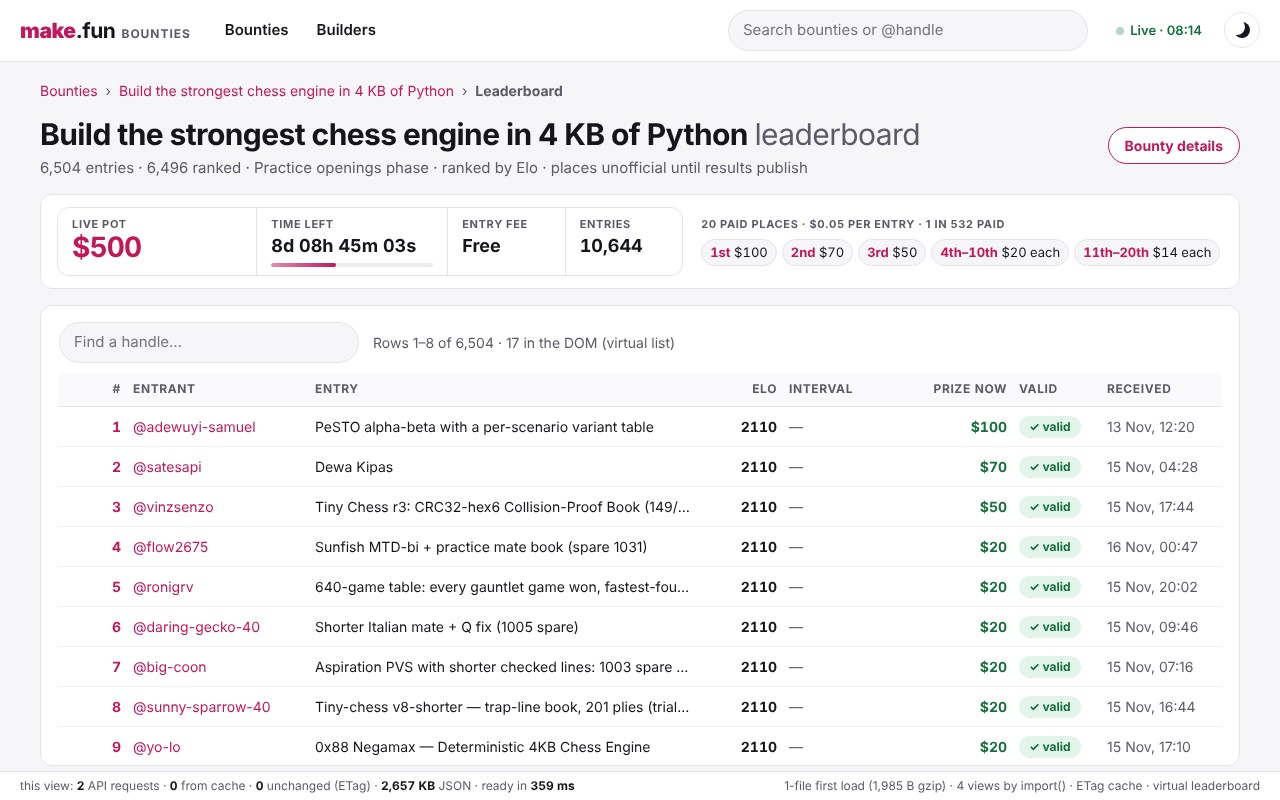
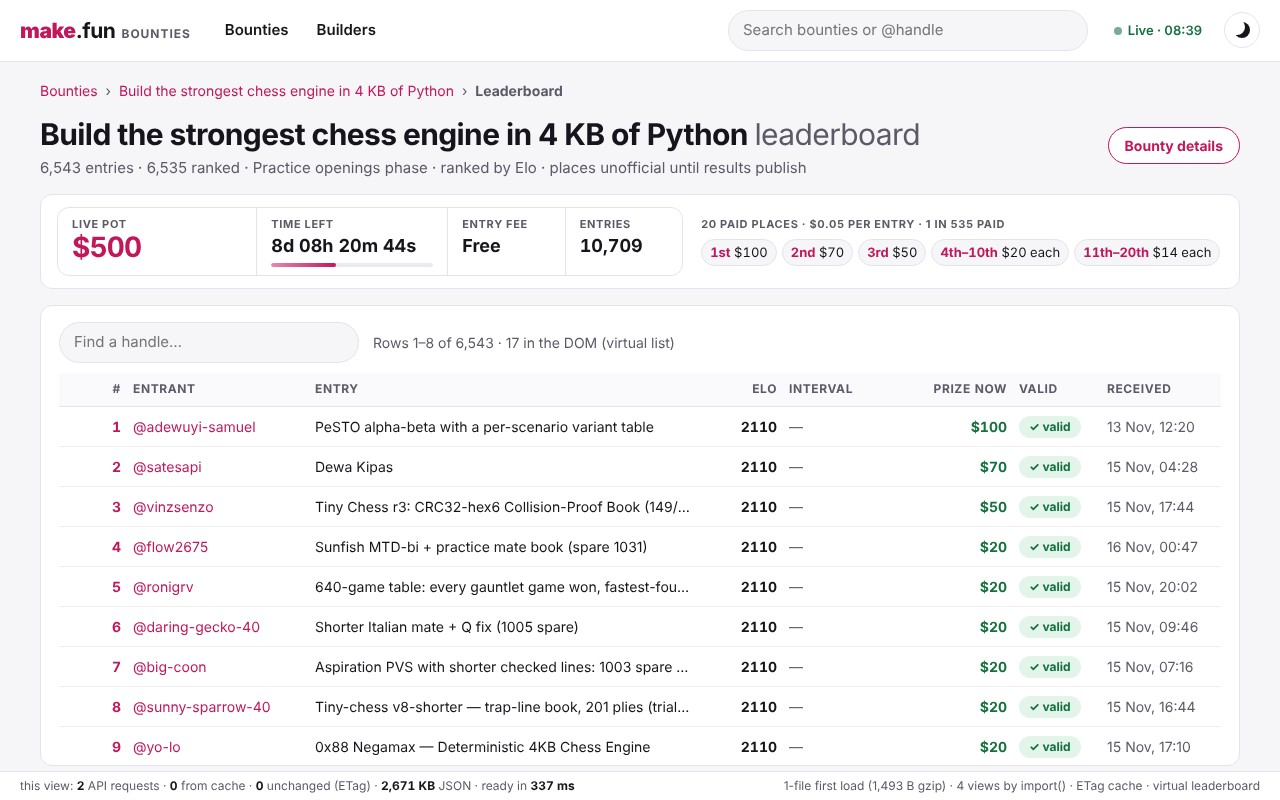
First load 1,493 B gzip (was 1,985): router body moves to shared.js
index.html keeps the pre-paint theme line, the critical CSS and route, which
names the view the hash asks for so <html data-k> shapes the skeleton before
any module arrives (classic script in <head>, so both are set before the body
is parsed). shared.js's show draws the view (module + stylesheet, board reuse,
errors, ready); the meter footer joins the page with the first view, once the
stylesheet is in. Header uses element/id selectors (header, #live, #theme);
sticky, nowrap and dark color-scheme move to the lazy sheet (no effect before
the first scroll or Live stamp). Meter build line and README updated; shots
retaken (same as before apart from live numbers and the meter).

Claude-Session: https://claude.ai/code/session_01LScbYBcbVsmiXmqsqjptVQ

diff --git a/app/views/shared.js b/app/views/shared.js
@@ -1,9 +1,10 @@
 export { cachedFetch, revalidate, meter };
-// Shared by every view: the API cache (cachedFetch: 60 s in memory, one request in flight a path; revalidate: ETag)
-// and the meter, which index.html's route resets; countdowns, live refresh, keyboard, theme, search; in-place row
-// patching; formatting. The open-bounties list feeds the board, the bounty pane and the leaderboard's header, and the
-// bounty pane's Top 5 is the leaderboard's own request, so going from a bounty to its leaderboard costs none.
-const { route } = self.mf, API = 'https://make.fun/api', cache = new Map(), inflight = new Map();
+// Shared by every view: show (index.html's global route names the view the hash asks for, show draws it), the API
+// cache (cachedFetch: 60 s in memory, one request in flight a path; revalidate: ETag) and the meter, which show resets;
+// countdowns, live refresh, keyboard, theme, search; in-place row patching; formatting. The open-bounties list feeds
+// the board, the bounty pane and the leaderboard's header, and the bounty pane's Top 5 is the leaderboard's own
+// request, so going from a bounty to its leaderboard costs none.
+const API = 'https://make.fun/api', cache = new Map(), inflight = new Map();
 
 /** API answers stay in memory for 60 s, and one request in flight serves every caller of the same path. */
 function cachedFetch(path, fresh) {
@@ -27,10 +28,10 @@ async function revalidate(path, hit) {
   return data;
 }
 
-/** What the view on screen cost, reset by each route (index.html sets mf.t0): first-paint requests, cache hits,
- * ETag-unchanged answers, bytes, rows patched, time to ready, then anything after ready as background. */
+/** What the view on screen cost, reset by each show (t0: when it started, 0 for the first load): first-paint requests,
+ * cache hits, ETag-unchanged answers, bytes, rows patched, time to ready, then anything after ready as background. */
 const meter = {
-  reset() { self.__shotReady = false; Object.assign(meter, { req: 0, mem: 0, etag: 0, wire: 0, json: 0, bg: 0, bkb: 0, patched: 0, t0: mf.t0 || 0, ms: 0 }).show(); },
+  reset(t0) { self.__shotReady = false; Object.assign(meter, { req: 0, mem: 0, etag: 0, wire: 0, json: 0, bg: 0, bkb: 0, patched: 0, t0: t0 || 0, ms: 0 }).show(); },
   add(k, n = 1) { if (meter.ms && !/m|g/.test(k)) k = k === 'req' ? 'bg' : 'bkb'; meter[k] += n; meter.show(); },
   show() { drawMeter(meter); },
 };
@@ -47,7 +48,7 @@ function tickCountdowns() {
 
 function liveRefresh() {
   if (document.visibilityState !== 'visible') return;
-  const p = route(true);
+  const p = show(true);
   if (p) p.then(() => (stamp(), tickCountdowns()), () => {});
 }
 
@@ -140,7 +141,7 @@ function normalizeRows(lb) {
     ...(lb.rest || []).map((r) => row(r, r.value, r.display, +(r.rank != null)))]);
 }
 
-const stamp = () => { document.querySelector('.live').textContent = `Live · ${new Date().toLocaleTimeString('en-GB', { hour: '2-digit', minute: '2-digit' })}`; };
+const stamp = () => { document.querySelector('#live').textContent = `Live · ${new Date().toLocaleTimeString('en-GB', { hour: '2-digit', minute: '2-digit' })}`; };
 function timeLeft(ms) {
   if (!(ms > 0)) return 'Closed';
   const s = Math.floor(ms / 1e3), d = Math.floor(s / 86400), p = (n) => String(n).padStart(2, '0');
@@ -169,24 +170,44 @@ const userLink = (h) => `<a href="#/u/${encodeURIComponent(h)}">@${esc(h)}</a>`;
 const none = async (el) => { el.innerHTML = notice('Page not found', 'That address is not a page of this app.'); };
 const focusSearch = () => (scrollTo(0, 0), $q.focus());
 
-const $q = document.querySelector('.top input'), $theme = document.querySelector('.theme');
+const $q = document.querySelector('header input'), $theme = document.querySelector('#theme'), $main = document.querySelector('main');
 const darkScheme = matchMedia('(prefers-color-scheme: dark)');
 
-/** The meter bar: what the view on screen cost, counted by index.html's cachedFetch and revalidate, and the build's first-load facts. */
+/** The meter bar: what the view on screen cost, counted by cachedFetch and revalidate, and the build's first-load facts. */
 function drawMeter(m) {
   const kbs = (n) => `<b>${n < 10240 ? +(n / 1024).toFixed(1) : num(Math.round(n / 1024))} KB</b>`, size = kbs(m.wire + m.json), ms = m.ms ? ` · <b>${num(m.ms)} ms</b>` : '';
   setHTML($meter, phone.matches
     ? `<span><b>${m.req}</b> request${m.req === 1 ? '' : 's'} · <b>${m.mem}</b> cached · <b>${m.etag}</b> unchanged · ${size}${ms}${m.bg ? ` · <b>+${m.bg}</b> bg` : ''}</span>`
     : `<span>this view: <b>${m.req}</b> API request${m.req === 1 ? '' : 's'} · <b>${m.mem}</b> from cache · <b>${m.etag}</b> unchanged (ETag) · ${size} ${m.json ? 'JSON' : m.wire ? 'transferred' : 'downloaded'}${m.patched ? ` · <b>${num(m.patched)}</b> row${m.patched === 1 ? '' : 's'} patched` : ''}${m.ms ? ` · ready in <b>${num(m.ms)} ms</b>` : ''}${m.bg ? ` · <b>+${m.bg}</b> background (${kbs(m.bkb)})` : ''}</span><i>${BUILD}</i>`);
 }
-const BUILD = '1-file first load (1,985 B gzip) · 4 views by import() · ETag cache · virtual leaderboard';
+const BUILD = '1-file first load (1,493 B gzip) · 4 views by import() · ETag cache · virtual leaderboard';
 const phone = matchMedia('(max-width: 639px)');
-const $meter = document.body.appendChild(document.createElement('footer'));
+const $meter = document.createElement('footer'); // put on the page with the first view, once the stylesheet is in
 $meter.className = 'meter';
 
-// Wiring, once, when the first view loads.
-mf.meter = meter;
-mf.ready = () => {
+/** Draws the view index.html's route names, put on screen only once its module and the stylesheet are in (the skeleton
+ * holds its place until then); picking another bounty on the board repaints the detail pane only; live: refreshes the
+ * view on screen in place. */
+async function show(live) {
+  const { path, kind, ...args } = route();
+  if (live) return view?.path === path && view.run(view.el, args, 1);
+  const my = ++seq, el = document.createElement('div');
+  meter.reset(my > 1 && performance.now());
+  if (kind === 'board' && view?.kind === kind) return (view.path = path), view.mod.selectBounty(view.el, args.a && args.b, args.query).then(() => ready(my));
+  document.documentElement.dataset.k = kind, ($main.innerHTML = '<div class=sk>'), scrollTo(0, 0);
+  let mod, run;
+  try { [mod] = await Promise.all([VIEWS[kind](), styled]); await (run = mod[kind])(el, args); }
+  catch (e) { el.innerHTML = '<p class=empty><button data-retry>Retry</button>'; el.firstChild.prepend(`Could not load: ${e.message} `); }
+  if (my === seq) (view = { el, path, kind, mod, run }), $main.replaceChildren(el), $meter.isConnected || document.body.append($meter), ready(my);
+}
+const VIEWS = { board: () => import('./board.js'), leaderboard: () => import('./leaderboard.js'), profile: () => import('./profile.js'), builders: () => import('./profile.js'), none: async () => ({ none }) };
+const styled = import('./style.js');
+let view, seq = 0;
+self.mf = { route, show, get view() { return view; } };
+
+/** The view is on screen: the meter's time to ready, the nav, the title, the Live stamp, then the background work. */
+function ready(my) {
+  if (my !== seq) return;
   const n = ++readyN;
   meter.ms = Math.round(performance.now() - meter.t0), meter.show();
   for (const fn of later.splice(0)) fn();
@@ -198,7 +219,7 @@ mf.ready = () => {
   stamp();
   tickCountdowns();
   return true;
-};
+}
 let readyN = 0;
 $q.form.addEventListener('submit', (e) => {
   e.preventDefault();
@@ -208,7 +229,7 @@ $q.form.addEventListener('submit', (e) => {
 });
 $q.addEventListener('input', () => mf.view?.mod.onSearch?.());
 document.addEventListener('click', (e) => {
-  if (e.target.closest('[data-retry]')) route();
+  if (e.target.closest('[data-retry]')) show();
   else if (e.target.closest('[data-search]')) focusSearch();
 });
 $theme.addEventListener('click', () => applyTheme($theme.getAttribute('aria-pressed') === 'true' ? 'light' : 'dark'));
@@ -221,7 +242,8 @@ applyTheme();
 bindKeyboard();
 setInterval(tickCountdowns, 1e3);
 setInterval(liveRefresh, 60e3);
-meter.reset();
+onhashchange = () => show();
+show();
 
 export { tickCountdowns, liveRefresh, bindKeyboard, applyTheme, patchRows, setHTML, oddsFor, paidPlaces, placeRuns, placeLabel, getBounties, getBounty, bountyFor, getLeaderboard, background, afterReady, normalizeRows,
-  route, esc, num, money, pot, countdown, timeBar, perEntry, notice, ordinal, fmtDate, shortDate, fmtScore, imagesDecoded, avatar, crumbs, userLink, none };
+  show, esc, num, money, pot, countdown, timeBar, perEntry, notice, ordinal, fmtDate, shortDate, fmtScore, imagesDecoded, avatar, crumbs, userLink, none };

diff --git a/app/index.html b/app/index.html
@@ -1,51 +1,36 @@
 <!doctype html>
-<html lang="en">
-<meta charset="utf-8">
-<meta name="viewport" content="width=device-width">
+<html lang=en>
+<meta charset=utf-8>
+<meta name=viewport content="width=device-width">
 <title>make.fun bounties</title>
+<script>// route; shared.js: cachedFetch (60s), revalidate (ETag), meter
+try{document.documentElement.dataset.theme=localStorage.theme||(matchMedia('(prefers-color-scheme:dark)').matches?'dark':'')}catch{}
+function route(){
+const[path,query='']=location.hash.replace(/^#\/?/,'').split('?'),[a,b,c]=path.split('/').map(decodeURIComponent);
+return{path,a,b,c,query,kind:!a||a=='bounty'&&b&&!c?'board':a=='bounty'&&c=='leaderboard'?'leaderboard':a=='u'&&b?'profile':a=='builders'&&!b?'builders':'none'}}
+document.documentElement.dataset.k=route().kind;
+import('./views/shared.js').catch(e=>document.querySelector('main').textContent=e.message);
+</script>
 <style>
 :root{--ac:#c2185b;--ink:#17151c;--mut:#5d5a68;--bg:#f6f5f8;--card:#fff;--line:#e6e2ec;--ok:#17703f}
-[data-theme=dark]{--ac:#f48fb1;--ink:#ecebf1;--mut:#a9a5b5;--bg:#121116;--card:#1c1b22;--line:#34313d;--ok:#5fd394;color-scheme:dark}
+[data-theme=dark]{--ac:#f48fb1;--ink:#ecebf1;--mut:#a9a5b5;--bg:#121116;--card:#1c1b22;--line:#34313d;--ok:#5fd394}
 *{box-sizing:border-box}
 body{margin:0;font:15px/1.5 system-ui;color:var(--ink);background:var(--bg)}
 a{color:var(--ac);text-decoration:none}
-.top{position:sticky;top:0;display:flex;align-items:center;gap:22px;padding:10px max(20px,50% - 620px);background:var(--card);border-bottom:1px solid var(--line)}
-.logo{font-size:21px;color:var(--ink);font-weight:700;letter-spacing:-.02em}.logo b{color:var(--ac)}
-.logo small{margin-left:6px;font-size:12px;color:var(--mut);text-transform:uppercase;letter-spacing:.08em}
+header{display:flex;align-items:center;gap:22px;padding:10px max(20px,50% - 620px);background:var(--card);border-bottom:1px solid var(--line)}
+header>a{font-size:21px;color:var(--ink);font-weight:700;letter-spacing:-.02em}
+header b{color:var(--ac)}
+header small{margin-left:6px;font-size:12px;color:var(--mut);text-transform:uppercase;letter-spacing:.08em}
 nav{display:flex;gap:4px}
 nav>*{font:inherit;color:var(--ink);font-weight:600;padding:6px 12px;border-radius:99px;border:0;background:none}
 form{flex:1;max-width:360px;margin-left:auto}
 input{width:100%;font:inherit;color:var(--ink);padding:8px 14px;border:1px solid var(--line);border-radius:99px;background:var(--bg)}
-.live{width:92px;text-align:right;font-size:13px;font-weight:600;color:var(--ok);white-space:nowrap}
-.theme{width:36px;height:36px;opacity:0}
+#live{width:92px;text-align:right;font-size:13px;font-weight:600;color:var(--ok)}
+#theme{width:36px;height:36px;opacity:0}
 main{max-width:1240px;margin:0 auto;padding:18px 20px 24px}
-[data-k=board]{max-width:1480px}
+[data-k=board] main{max-width:1480px}
 .sk{border-radius:14px;background:var(--line);height:70vh}
-@media (min-width:1000px){[data-k=board] .sk{background:linear-gradient(90deg,var(--line) 640px,#0000 0 658px,var(--line) 0)}}
-@media (max-width:860px){.top{flex-wrap:wrap;gap:8px 14px;padding:10px 14px}form{order:9;flex-basis:100%;max-width:none}main{padding:14px 12px}}
-@media (max-width:639px){.live{margin-left:auto}input,.theme{min-height:44px}.theme{width:44px}nav{position:fixed;inset:auto 0 0;padding:4px 6px;background:var(--card);border-top:1px solid var(--line)}nav>*{display:grid!important;place-items:center;flex:1;min-height:52px}}
-</style>
-<header class="top"><a class="logo" href="#/"><b>make</b>.fun<small>bounties</small></a><nav><a href="#/">Bounties</a><a href="#/builders">Builders</a><button hidden data-search>Search</button></nav>
-<form><input type="search" placeholder="Search bounties or @handle" aria-label="Search"></form><span class="live">Live</span><button class="theme" aria-label="Dark theme"></button></header>
-<main></main>
-<script type="module">// route; shared.js: cachedFetch (60s), revalidate (ETag), meter
-try{document.documentElement.dataset.theme=localStorage.theme||(matchMedia('(prefers-color-scheme:dark)').matches?'dark':'')}catch{}
-const main=document.querySelector('main'),
-VIEWS={board:()=>import('./views/board.js'),leaderboard:()=>import('./views/leaderboard.js'),profile:()=>import('./views/profile.js'),builders:()=>import('./views/profile.js'),none:()=>import('./views/shared.js')};
-let view,seq=0;
-async function route(live){
-const[path,query='']=location.hash.replace(/^#\/?/,'').split('?'),[a,b,c]=path.split('/').map(decodeURIComponent),args={a,b,c,query},
-kind=!a||a=='bounty'&&b&&!c?'board':a=='bounty'&&c=='leaderboard'?'leaderboard':a=='u'&&b?'profile':a=='builders'&&!b?'builders':'none';
-if(live)return view?.path==path&&view.run(view.el,args,1);
-const my=++seq,el=document.createElement('div');
-mf.t0=my>1&&performance.now();mf.meter?.reset();
-if(kind=='board'&&view?.kind==kind)return view.path=path,view.mod.selectBounty(view.el,a&&b,query).then(()=>ready(my));
-main.dataset.k=kind;main.innerHTML='<div class=sk>';scrollTo(0,0);
-let mod,run;
-try{[mod]=await Promise.all([VIEWS[kind](),import('./views/style.js')]);await(run=mod[kind])(el,args)}
-catch(e){el.innerHTML='<p class=empty><button data-retry>Retry</button>';el.firstChild.prepend(`Could not load: ${e.message} `)}
-if(my==seq)view={el,path,kind,mod,run},main.replaceChildren(el),ready(my)}
-const ready=(my)=>my==seq&&mf.ready?.();
-self.mf={route,get view(){return view}};
-onhashchange=()=>route();route();
-</script>
+@media(min-width:1000px){[data-k=board] .sk{background:linear-gradient(90deg,var(--line) 640px,#0000 0 658px,var(--line) 0)}}
+@media(max-width:860px){header{flex-wrap:wrap;gap:8px 14px;padding:10px 14px}form{order:9;flex-basis:100%;max-width:none}main{padding:14px 12px}}
+@media(max-width:639px){#live{margin-left:auto}input,#theme{min-height:44px}#theme{width:44px}nav{position:fixed;inset:auto 0 0;padding:4px 6px;background:var(--card);border-top:1px solid var(--line)}nav>*{display:grid!important;place-items:center;flex:1;min-height:52px}}
+</style><header><a href=#/><b>make</b>.fun<small>bounties</small></a><nav><a href=#/>Bounties</a><a href=#/builders>Builders</a><button hidden data-search>Search</button></nav><form><input type=search placeholder="Search bounties or @handle" aria-label=Search></form><span id=live>Live</span><button id=theme aria-label="Dark theme"></button></header><main><div class=sk></div></main>

diff --git a/app/views/style.js b/app/views/style.js
@@ -6,19 +6,22 @@ stylesheet.replaceSync(String.raw`
 :root[data-theme=dark]{--ac2:#3b1f2d;--sk:#24222b;--on-ac:#1d0a13;--hd:#1c1b22f2;--ink2:#cfccd8;--th:#23212a;--line2:#2a2831;--hov:#2a2330;--okbg:#17321f;--warn:#f5b04a;--warnbg:#382a14;--soonbg:#2d2615;--chip:#2c2a33;--red:#ff8a80}
 a:hover{text-decoration:underline}
 body{padding-bottom:30px}
+[data-theme=dark]{color-scheme:dark}
+header{position:sticky;top:0}
+#live{white-space:nowrap}
 .meter{position:fixed;z-index:7;inset:auto 0 0;display:flex;gap:16px;justify-content:space-between;padding:5px max(20px,50% - 720px);font-size:12px;color:var(--mut);background:var(--card);border-top:1px solid var(--line);white-space:nowrap}
 .meter span{overflow:hidden;text-overflow:ellipsis}.meter b{color:var(--ink);font-variant-numeric:tabular-nums}.meter i{font-style:normal;overflow:hidden;text-overflow:ellipsis;flex-shrink:9}
 h1{font-size:30px;line-height:1.15;margin:6px 0;letter-spacing:-.02em}
 h2{font-size:17px;margin:0 0 12px}
 h2 small,.muted{color:var(--mut);font-weight:400}
 :focus-visible{outline:2px solid var(--ac);outline-offset:2px}
-.top{z-index:5;background:var(--hd);backdrop-filter:blur(8px)}
+header{z-index:5;background:var(--hd);backdrop-filter:blur(8px)}
 nav [aria-current],nav a:hover{background:var(--ac2);text-decoration:none}
 form input:focus{outline:2px solid var(--ac);background:var(--card)}
-.theme{display:grid;place-items:center;flex:none;padding:0;opacity:1;border-radius:50%;border:1px solid var(--line);background:var(--card);color:var(--ink);cursor:pointer}
-.theme::before{content:"";width:16px;height:16px;border-radius:50%;box-shadow:inset -5px -3px 0 0 currentColor}
-[data-theme=dark] .theme::before{box-shadow:inset 0 0 0 9px currentColor}
-.live::before{content:"";display:inline-block;width:8px;height:8px;margin-right:6px;border-radius:50%;background:var(--ok);animation:pulse 2s infinite}
+#theme{display:grid;place-items:center;flex:none;padding:0;opacity:1;border-radius:50%;border:1px solid var(--line);background:var(--card);color:var(--ink);cursor:pointer}
+#theme::before{content:"";width:16px;height:16px;border-radius:50%;box-shadow:inset -5px -3px 0 0 currentColor}
+[data-theme=dark] #theme::before{box-shadow:inset 0 0 0 9px currentColor}
+#live::before{content:"";display:inline-block;width:8px;height:8px;margin-right:6px;border-radius:50%;background:var(--ok);animation:pulse 2s infinite}
 @keyframes pulse{50%{opacity:.3}}
 .sk{background:var(--sk);animation:pulse 1.2s infinite}
 .chips{display:flex;flex-wrap:wrap;gap:6px}
@@ -167,7 +170,7 @@ h1{font-size:24px}
 body{padding-bottom:92px}
 .meter{bottom:61px;padding:4px 12px}.meter i{display:none}
 nav{background:var(--hd)}
-.top{backdrop-filter:none;background:var(--card)}
+header{backdrop-filter:none;background:var(--card)}
 nav{z-index:6;backdrop-filter:blur(8px)}
 #who,select,.chips button,.btn{min-height:44px;min-width:44px}
 #who{max-width:none}

diff --git a/app/views/board.js b/app/views/board.js
@@ -4,7 +4,7 @@ export { renderBoard, renderBountyDetail, renderTop5, selectBounty };
 // so opening the leaderboard next costs none) and, once the dates or rules are in view, the bounty's own record (rules,
 // results date). Picking a row repaints the detail pane only; a live refresh patches what changed, in place.
 import { getBounties, getBounty, getLeaderboard, background, afterReady, normalizeRows, patchRows, setHTML, oddsFor, paidPlaces, placeRuns, placeLabel, tickCountdowns,
-  esc, num, money, pot, countdown, timeBar, perEntry, notice, fmtDate, userLink } from './shared.js';
+  esc, num, money, pot, countdown, timeBar, perEntry, notice, fmtDate, userLink, show } from './shared.js';
 
 async function renderBoard(el, { a, b, query }, live) {
   if (!live) readQuery(query);
@@ -106,7 +106,7 @@ function paintBoard(el) {
 function updateRows(el) {
   if (!SORTS[board.sort]) board.sort = 'soon';
   el.querySelector('select').value = board.sort;
-  const q = document.querySelector('.top input').value.trim().toLowerCase();
+  const q = document.querySelector('header input').value.trim().toLowerCase();
   const keep = (b) => (board.cat === 'All' || b.category === board.cat) && (!q || q[0] === '@' || `${b.title} ${b.category} ${b.summary}`.toLowerCase().includes(q));
   const { open, soon } = boardGroups();
   const rows = open.filter(keep).sort(SORTS[board.sort][1]), later = soon.filter(keep);
@@ -241,7 +241,7 @@ function step(d) {
   if (!r) return;
   if (!wide.matches) return void (board.sel = r.dataset.slug, markSelected(el), r.scrollIntoView({ block: 'nearest' }));
   history.replaceState(null, '', r.getAttribute('href'));
-  mf.route();
+  show();
 }
 
 function back() {

diff --git a/README.md b/README.md
@@ -12,7 +12,7 @@ A fast, dependency-free make.fun frontend: plain static files in `app/` (vanilla
 - **Profile** (`#/u/<handle>`) and **top builders** (`#/builders`): totals, entries grouped by bounty, on-chain payouts.
 - **Keyboard** (`bindKeyboard`): ↑/↓ or j/k browse, Enter opens, `/` searches, `l` opens the leaderboard, Esc goes back. **Theme** (`applyTheme`): follows the system, toggle kept in `localStorage`. **Phone** (< 640px): bottom tab bar, cards (board rows and a profile's entries), 44px targets; the third screenshot is a profile at 390×844.
 
-**Speed.** The first load is one file: `index.html` (1,985 bytes gzip-9, was 2,514) holding only what paints before the first view arrives: the critical CSS (theme colours, header, layout width, a skeleton shaped like the view) and `route`. Every view (`views/board.js`, `views/leaderboard.js`, `views/profile.js` for the profile and builders), the shared module (`views/shared.js`: `cachedFetch`, `revalidate`, `meter` and the helpers) and the stylesheet (`views/style.js`, a constructed `CSSStyleSheet`) load by literal `import()`; a view is put on screen only once its module and the stylesheet are in, so nothing paints unstyled, and the header and the layout grid sit where they will stay from the first frame (checked at 1280×800 and 390×844: no shift between the first paint and the finished view). Muted and status colours meet WCAG AA (≥ 4.5:1) on every background they sit on, in both themes.
+**Speed.** The first load is one file: `index.html` (1,493 bytes gzip-9, was 1,985) holding only what paints before the first view arrives: the critical CSS (theme colours, header, layout width, a skeleton shaped like the view), the theme and `route`, which names the view the hash asks for so the skeleton takes its shape before any module arrives. Every view (`views/board.js`, `views/leaderboard.js`, `views/profile.js` for the profile and builders), the shared module (`views/shared.js`: `show`, which draws the view `route` names, `cachedFetch`, `revalidate`, `meter` and the helpers) and the stylesheet (`views/style.js`, a constructed `CSSStyleSheet`) load by literal `import()`; a view is put on screen only once its module and the stylesheet are in, so nothing paints unstyled, and the header and the layout grid sit where they will stay from the first frame (checked at 1280×800 and 390×844: no shift between the first paint and the finished view). Muted and status colours meet WCAG AA (≥ 4.5:1) on every background they sit on, in both themes.
 
 **Few requests a view.** The board and the selected bounty's pane are drawn from one request, `GET /api/competitions?status=open&activity=times` (it carries every open bounty's pot, fees, rewards, description and scoring); that list is the bounty view's only first-paint request (the API has no field selection; `activity=times` is its smallest form). Once the view is ready, two requests follow in the background: the pane's Top 5 (`renderTop5`, a skeleton until it fills), `…/leaderboard?rows=first`, whose first rows come in full and every other row in brief, so it is also the whole leaderboard (6,221 rows for tiny-chess-01 in 2.4 MB, against 8.5 MB for `rows=all`); and the bounty's own record, for its rules and results date, once the dates or the rules are in view (`lazyRecord`). The cover, `#/bounty/makefun-frontend-01`, reads "1 API request · 236 KB JSON · ready in ~250 ms · +2 background" (it was 2 requests ready in 779 ms). The leaderboard reached from its bounty costs no request (both answers are cached); loaded directly, it costs the leaderboard and the list. A bounty that is not open any more costs its own record.
 
